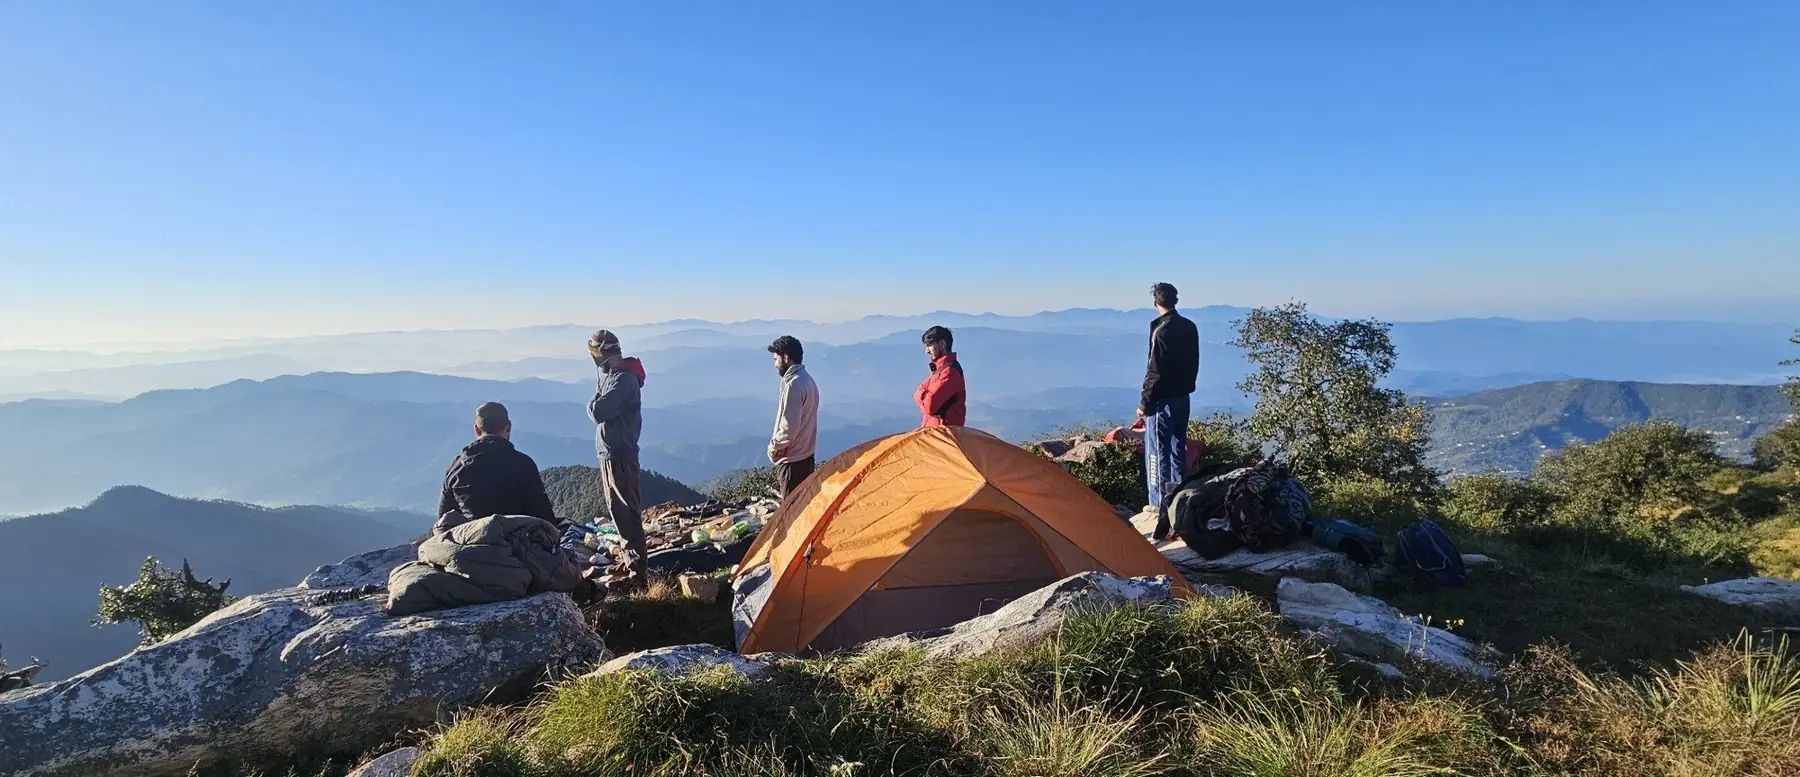
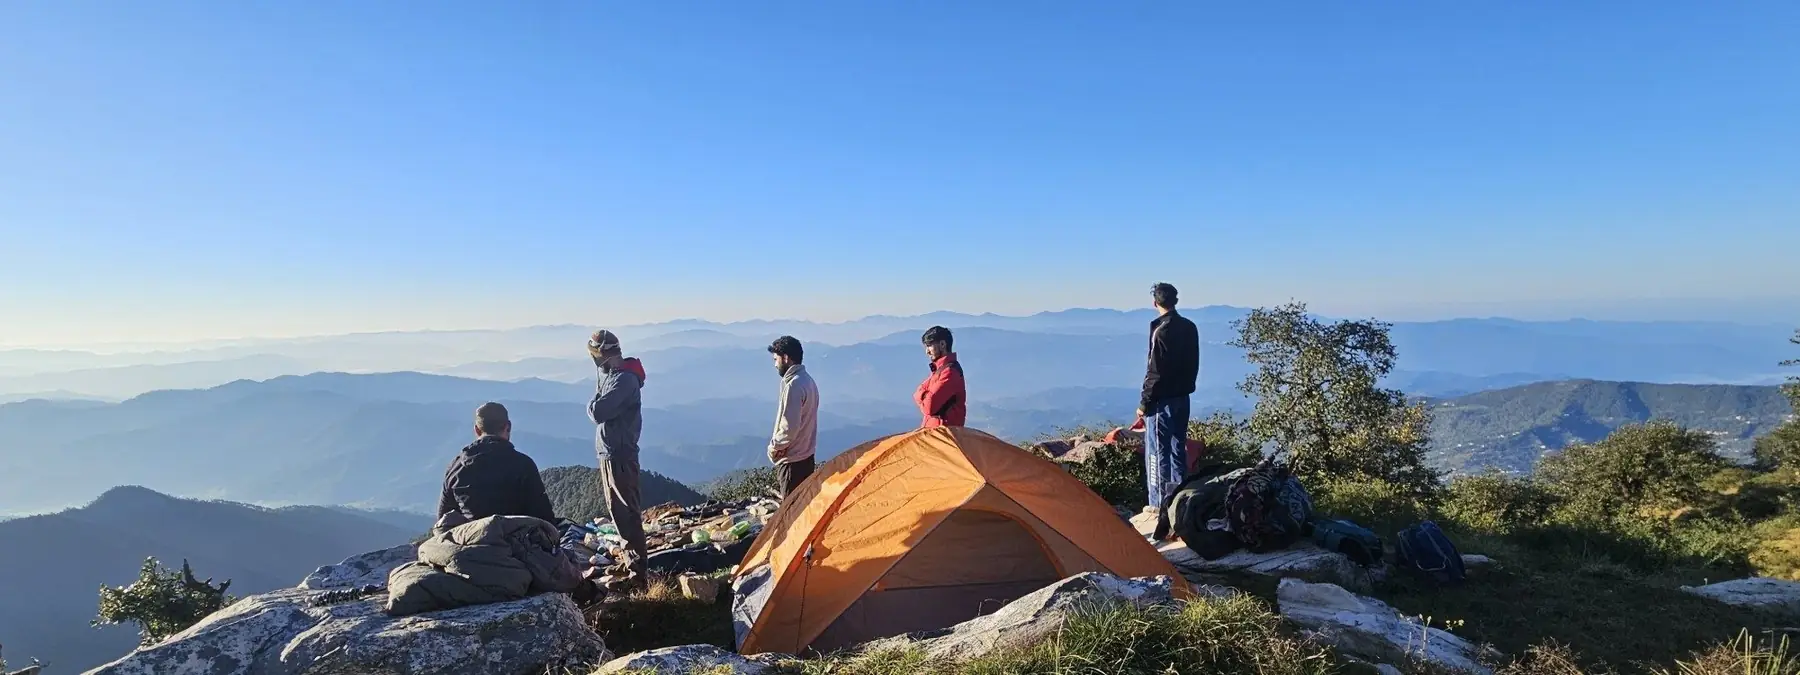
Use the panoramic summit camp photo as the treks page header
Claude-Session: https://claude.ai/code/session_01QtEvkyFWHujX5Z5bdzkCtw

diff --git a/treks.html b/treks.html
@@ -49,7 +49,7 @@
 <main id="main">
 
 <section class="page-hero">
-  <div class="hero-media"><div class="media "><picture><source type="image/webp" srcset="/assets/img/photos/out/treks-hero-900.webp 900w, /assets/img/photos/out/treks-hero-1800.webp 1800w" sizes="(max-aspect-ratio: 1/1) 220vh, 100vw"><img src="/assets/img/photos/treks-hero.jpg" alt="" loading="eager" fetchpriority="high" decoding="async" width="1800" height="1200" style="--pos:55% 60%"></picture></div></div>
+  <div class="hero-media"><div class="media "><picture><source type="image/webp" srcset="/assets/img/photos/out/treks-hero-900.webp 900w, /assets/img/photos/out/treks-hero-1800.webp 1800w" sizes="(max-aspect-ratio: 1/1) 220vh, 100vw"><img src="/assets/img/photos/treks-hero.jpg" alt="" loading="eager" fetchpriority="high" decoding="async" width="1800" height="1200" style="--pos:20% 50%;--pos-m:52% 50%"></picture></div></div>
   <div class="wrap page-hero-inner">
     <nav class="breadcrumbs" aria-label="Breadcrumb"><ol><li><a href="/">Home</a></li><li aria-current="page">Treks</li></ol></nav>
     <span class="eyebrow">Treks</span>

diff --git a/src/templates.py b/src/templates.py
@@ -45,7 +45,7 @@ FOCUS = {
     "trek-pandavkholi": "55% 60%",
     "trek-bharatkot": "60% 60%",
     "journeys-hero": "50% 62%",
-    "treks-hero": "55% 60%",
+    "treks-hero": ("20% 50%", "52% 50%"),
     "experiences-hero": ("0% 65%", "46% 65%"),
     "about-hero": "50% 45%",
     "team-nishant": "50% 70%",
